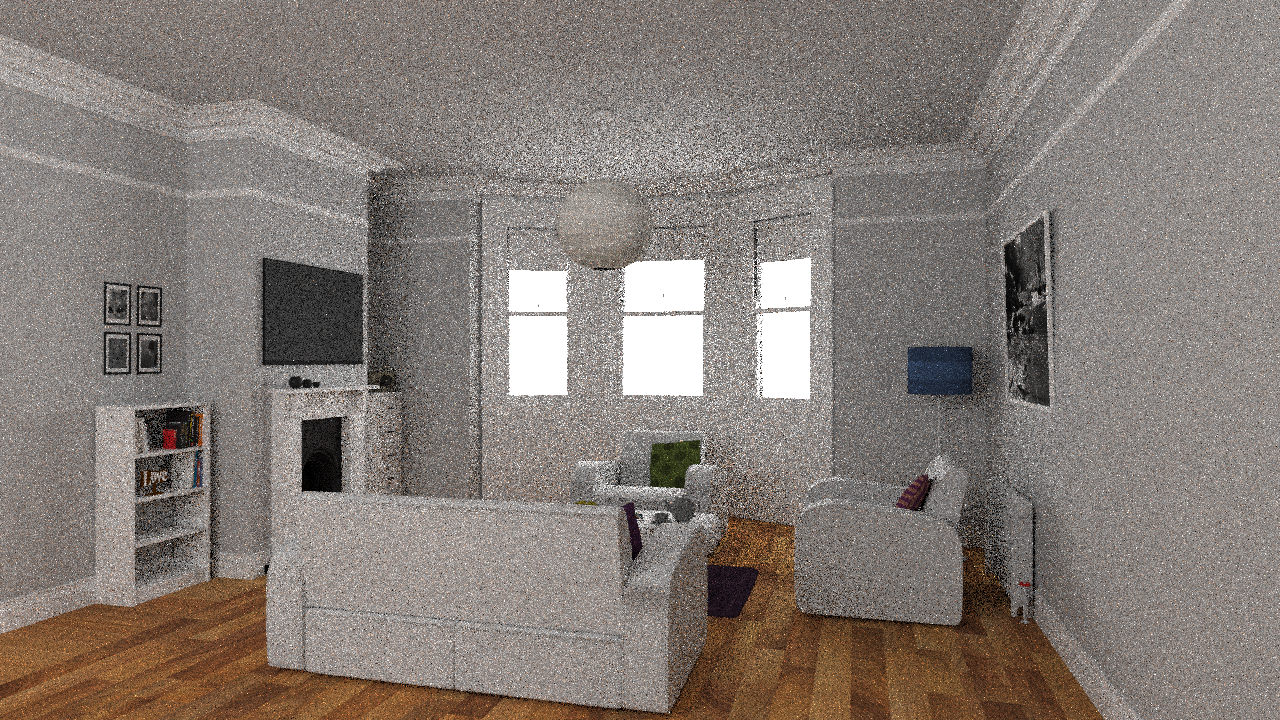
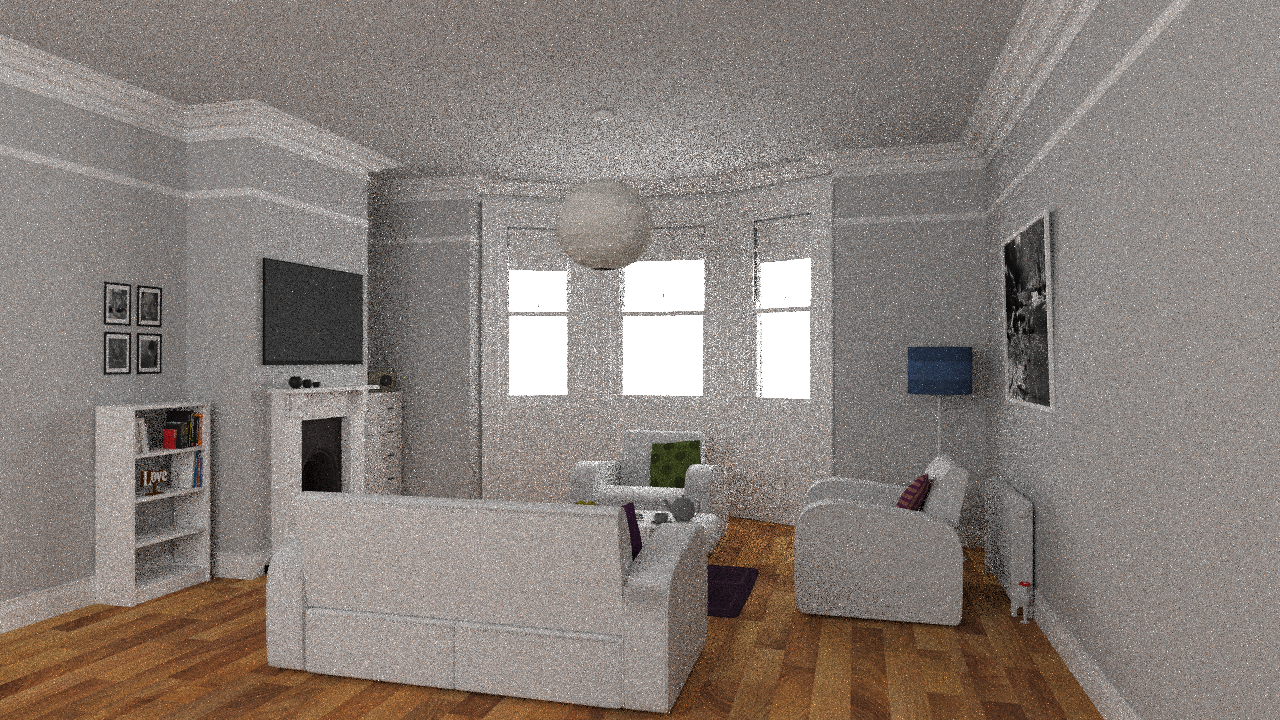
..

Changed region(s): [[0.0, 0.0, 1.0, 1.0]]

diff --git a/src/core/integrators/rtao.cpp b/src/core/integrators/rtao.cpp
@@ -53,20 +53,22 @@ namespace miyuki::core {
                     // log::log("{} {} {}\n",sample.ray.o.x(),sample.ray.o.y(),sample.ray.o.z());
                     Intersection isct;
                     if (scene->intersect(sample.ray, isct)) {
-                        auto wo = isct.worldToLocal(isct.wo);
-                        auto w = CosineHemisphereSampling(sampler->next2D());
-                        if (wo.y() * w.y() < 0) {
-                            w = -1.0f * w;
-                        }
-                        w = isct.localToWorld(w);
-                        auto ray = isct.spawnRay(w);
-                        ray.tMax = occludeDistance;
-                        isct = Intersection();
-                        if (!scene->intersect(ray, isct) || isct.distance >= occludeDistance) {
-                            film.addSample(sample.pFilm, Spectrum(1), 1);
-                        } else {
-                            film.addSample(sample.pFilm, Spectrum(0), 1);
-                        }
+//                        auto tex = isct.shape->texCoordAt(isct.uv);
+                        film.addSample(sample.pFilm, isct.Ng, 1);
+//                        auto wo = isct.worldToLocal(isct.wo);
+//                        auto w = CosineHemisphereSampling(sampler->next2D());
+//                        if (wo.y() * w.y() < 0) {
+//                            w = -1.0f * w;
+//                        }
+//                        w = isct.localToWorld(w);
+//                        auto ray = isct.spawnRay(w);
+//                        ray.tMax = occludeDistance;
+//                        isct = Intersection();
+//                        if (!scene->intersect(ray, isct) || isct.distance >= occludeDistance) {
+//                            film.addSample(sample.pFilm, Spectrum(1), 1);
+//                        } else {
+//                            film.addSample(sample.pFilm, Spectrum(0), 1);
+//                        }
                     } else {
                         film.addSample(sample.pFilm, Spectrum(0), 1);
                     }

diff --git a/src/core/bsdfs/mixbsdf.cpp b/src/core/bsdfs/mixbsdf.cpp
@@ -25,15 +25,23 @@
 namespace miyuki::core {
 
     Spectrum MixBSDF::evaluate(const ShadingPoint &sp, const Vec3f &wo, const Vec3f &wi) const {
-        return lerp<Spectrum>(bsdfA->evaluate(sp, wo, wi),
-                              bsdfB->evaluate(sp, wo, wi),
-                              Vec3f(fraction->evaluate(sp)[0]));
+        auto fA = bsdfA->evaluate(sp, wo, wi);
+        auto fB = bsdfB->evaluate(sp, wo, wi);
+        auto frac = fraction->evaluate(sp)[0];
+        MIYUKI_CHECK(minComp(fA) >= 0.0f);
+        MIYUKI_CHECK(minComp(fB) >= 0.0f);
+        MIYUKI_CHECK(frac >= 0.0f && frac <= 1.0f);
+        return lerp<Spectrum>(fA, fB, Vec3f(frac));
     }
 
     Float MixBSDF::evaluatePdf(const ShadingPoint &sp, const Vec3f &wo, const Vec3f &wi) const {
-        return lerp(bsdfA->evaluatePdf(sp, wo, wi),
-                    bsdfB->evaluatePdf(sp, wo, wi),
-                    (float) fraction->evaluate(sp)[0]);
+        auto pdfA = bsdfA->evaluatePdf(sp, wo, wi);
+        auto pdfB = bsdfB->evaluatePdf(sp, wo, wi);
+        auto frac = fraction->evaluate(sp)[0];
+        MIYUKI_CHECK(pdfA >= 0.0f);
+        MIYUKI_CHECK(pdfB >= 0.0f);
+        MIYUKI_CHECK(frac >= 0.0f && frac <= 1.0f);
+        return lerp(pdfA, pdfB, frac);
     }
 
     void MixBSDF::sample(Point2f u, const ShadingPoint &sp, BSDFSample &sample) const {
@@ -52,7 +60,8 @@ namespace miyuki::core {
             frac = 1.0f - frac;
         }
         first->sample(u, sp, sample);
-
+        MIYUKI_CHECK(0 <= frac && frac <= 1);
+        MIYUKI_CHECK(minComp(sample.f) >= 0.0f);
         // evaluate whole bsdf if not sampled specular
         if ((sample.sampledType & BSDF::ESpecular) == 0) {
             sample.f = lerp<Spectrum>(sample.f, second->evaluate(sp, sample.wo, sample.wi), Vec3f(frac));

diff --git a/src/core/integrators/pt.cpp b/src/core/integrators/pt.cpp
@@ -57,7 +57,7 @@ namespace miyuki::core {
             return Spectrum(0);
         };
 
-
+        bool enableNEE = true;
         auto Li = [=](Sampler &sampler, Ray ray) -> Spectrum {
             Spectrum Li(0);
             Spectrum beta(1);
@@ -83,9 +83,10 @@ namespace miyuki::core {
 
                 if (intersection.material->emission && intersection.material->emissionStrength &&
                     dot(ray.d, intersection.Ng) < 0) {
+
                     auto light = intersection.shape->light;
                     auto lightPdf = settings.lightDistribution->lightPdf(light);
-                    if (depth == 0 || !light || lightPdf <= 0.0f || specular) {
+                    if (!enableNEE || depth == 0 || !light || lightPdf <= 0.0f || specular) {
                         Li += beta * intersection.material->emission->evaluate(sp)
                               * intersection.material->emissionStrength->evaluate(sp);
                     } else {
@@ -108,6 +109,7 @@ namespace miyuki::core {
                     bsdf->sample(sampler.next2D(), sp, bsdfSample);
                     MIYUKI_CHECK(!std::isnan(bsdfSample.pdf));
                     MIYUKI_CHECK(bsdfSample.pdf >= 0.0);
+                    MIYUKI_CHECK(minComp(bsdfSample.f) >= 0.0f);
                     if (std::isnan(bsdfSample.pdf) || bsdfSample.pdf <= 0.0f) {
                         break;
                     }
@@ -116,7 +118,7 @@ namespace miyuki::core {
                 }
 
                 // Light Sampling
-                {
+                if (enableNEE) {
                     Float lightPdf = 0;
                     auto light = settings.lightDistribution->sampleLight(sampler, &lightPdf);
                     if (light) {

diff --git a/src/core/bsdfs/microfacet.cc b/src/core/bsdfs/microfacet.cc
@@ -22,6 +22,7 @@
 #include "microfacet.h"
 #include <miyuki.renderer/shader.h>
 #include <miyuki.renderer/trignometry.hpp>
+#include <miyuki.foundation/log.hpp>
 
 namespace miyuki::core {
     static float SchlickWeight(float cosTheta) {
@@ -46,7 +47,7 @@ namespace miyuki::core {
         if (dot(v,m) * v.y() <= 0.0f) {
             return 0.0f;
         }
-        return 2.0f / (1.0 + sqrt(1.0 + alpha * alpha * Tan2Theta(m)));
+        return 2.0 / (1.0 + sqrt(1.0 + alpha * alpha * Tan2Theta(m)));
     }
 
     static float GGX_G(float alpha, const Vec3f &i, const Vec3f &o, const Vec3f &m) {

diff --git a/src/core/mesh-importers/wavefront-importer.cpp b/src/core/mesh-importers/wavefront-importer.cpp
@@ -68,7 +68,8 @@ namespace miyuki::core {
             ks = Vec3f(1);
         }
 
-        auto frac = std::clamp(maxComp(kd) == 0 ? 1.0 : maxComp(ks) / maxComp(kd), 0.0, 1.0);
+
+        auto frac = std::clamp((maxComp(kd) + maxComp(ks))== 0 ? 1.0 : maxComp(ks) / (maxComp(kd) + maxComp(ks)), 0.0, 1.0);
         auto emission = Vec3f(mat.emission[0], mat.emission[1], mat.emission[2]);
         auto strength = maxComp(emission) == 0.0 ? 0.0 : maxComp(emission);
         emission = strength == 0.0 ? Vec3f(0) : emission / maxComp(emission);
